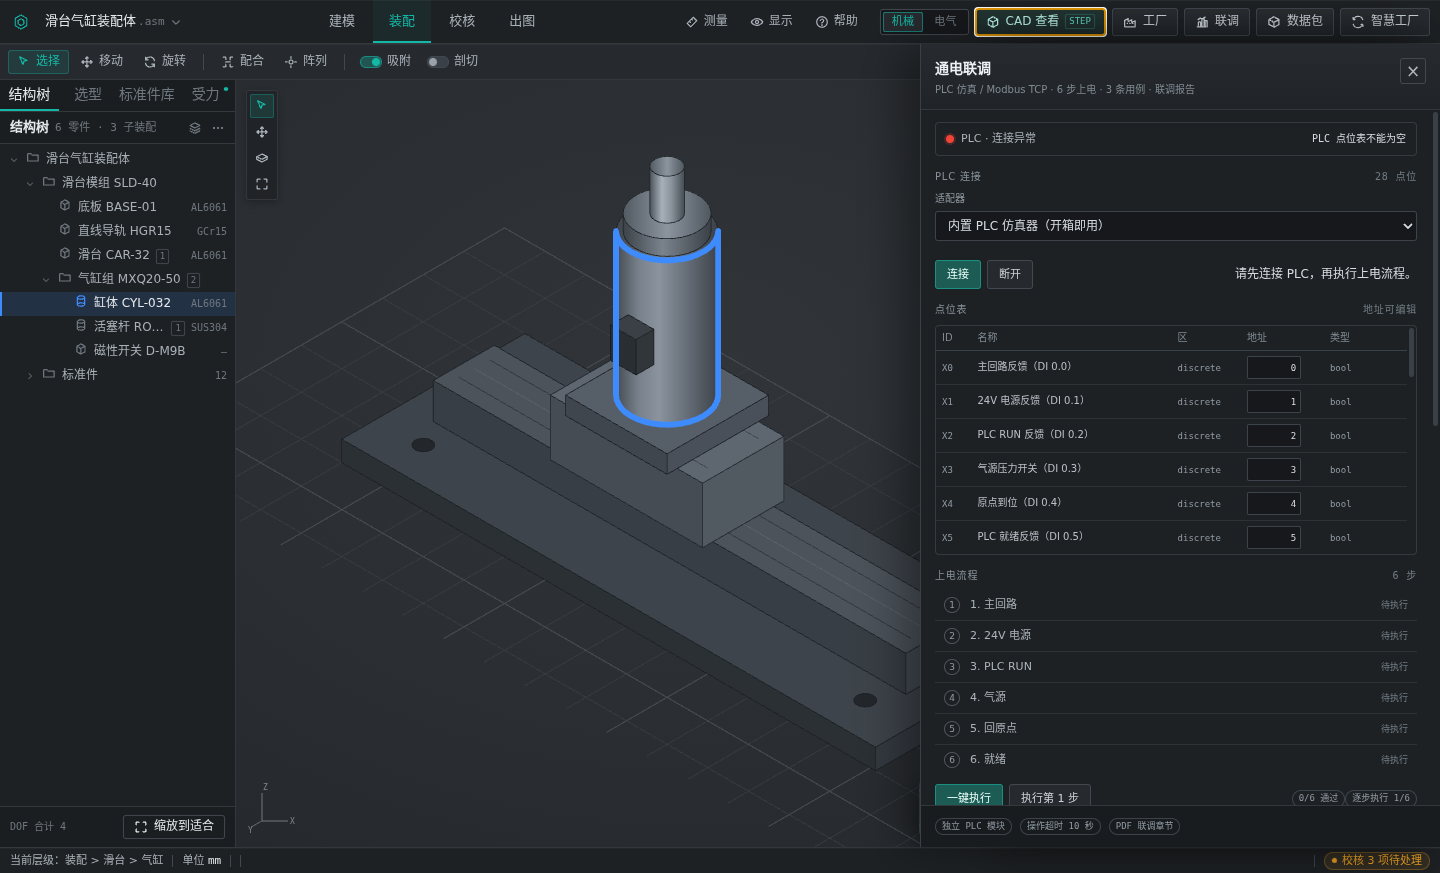
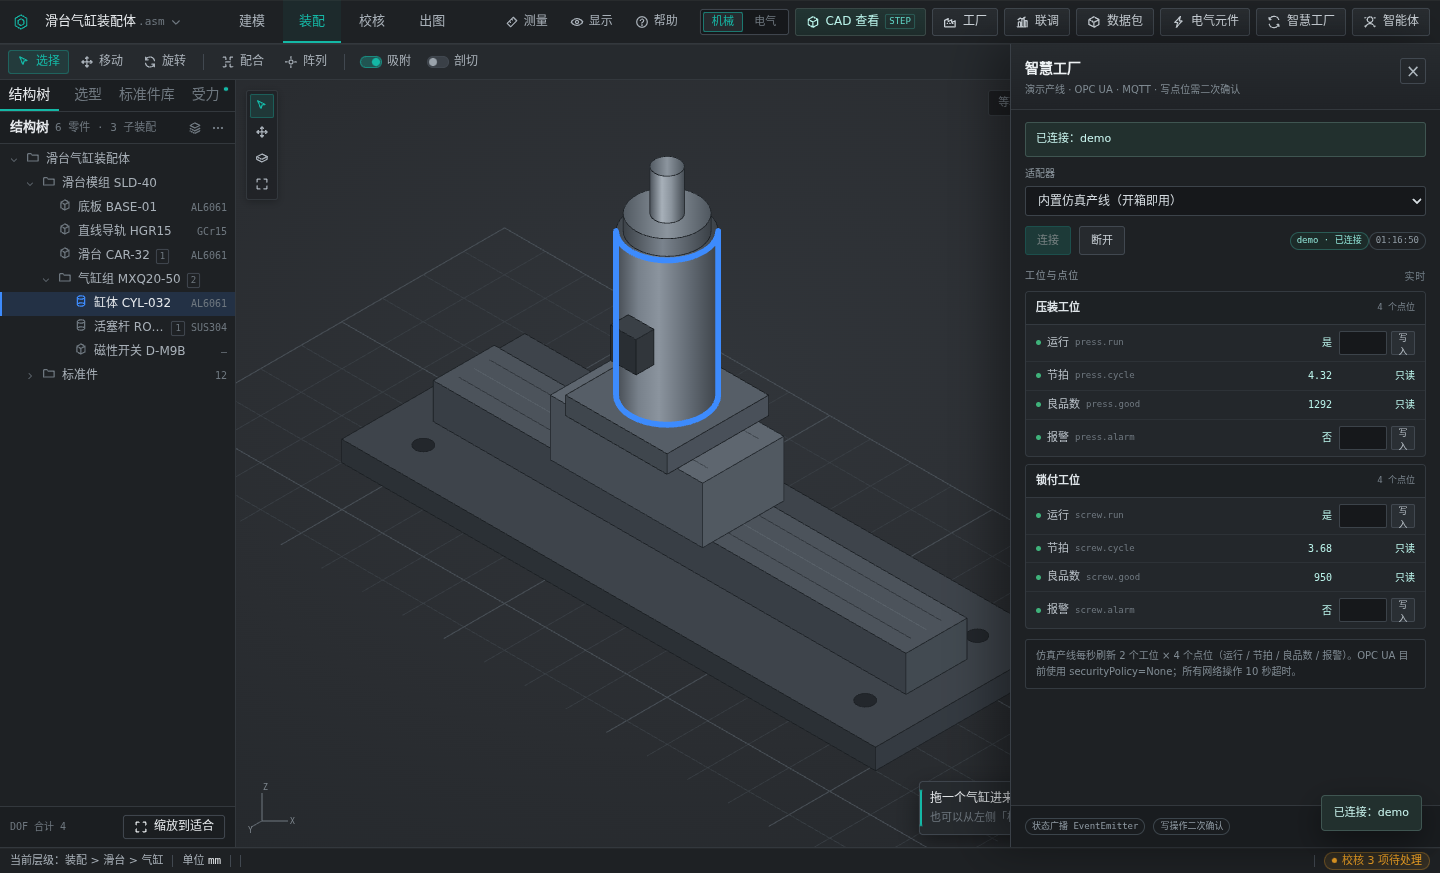
docs: 补拍智慧工厂实时值截图并修正图注

diff --git a/README.md b/README.md
@@ -21,7 +21,7 @@
 | `02-cad-assembly.png` | CAD 查看 · STEP 装配体 |
 | `03-interference.png` | 干涉检测 |
 | `04-stress.png` | 受力分析 |
-| `05-factory.png` | 联调前的点位表校验（异常路径） |
+| `05-factory.png` | 智慧工厂 · demo 产线实时值 |
 | `06-commission.png` | 通电联调 · 6 步全通过 |
 | `07-packs.png` | 数据包管理 |
 | `08-elec-library.png` | 电气元件库 |
@@ -46,11 +46,13 @@
 
 *受力分析：气缸推力按 `F = p·πD²/4·η` 计算，同时给出拉力（0.85 系数）、余量与安全系数；悬臂梁与螺栓预紧同页，超限项直接标红并给出改法建议。*
 
-### 通电联调：先校验点位表，再上电
+### 智慧工厂：demo 产线实时值
 
-![联调：点位表为空时拒绝上电](docs/desktop/screenshots/05-factory.png)
+![智慧工厂：demo 适配器连接后 2 工位 8 点位实时刷新](docs/desktop/screenshots/05-factory.png)
 
-*联调异常路径：点位表为空时连接直接报「PLC 点位表不能为空」，不允许带着空表跑上电流程——这是实跑截图，不是示意。*
+*智慧工厂：内置 demo 适配器连接后自动列出 2 个工位 × 4 个点位（运行 / 节拍 / 良品数 / 报警），每秒刷新；可写点位会弹出确认，OPC UA 与 MQTT 共用同一适配器接口。*
+
+### 通电联调：6 步上电与 3 条用例
 
 ![通电联调：6 步上电全部通过](docs/desktop/screenshots/06-commission.png)
 

diff --git a/docs/desktop/STATUS.md b/docs/desktop/STATUS.md
@@ -52,7 +52,7 @@
 5. **干涉为 AABB 初筛**，非精确布尔求交；贴合面与螺纹啮合可能误报，需白名单收口。
 6. **应用内对话的模型兼容性**只按 OpenAI 兼容协议、用本地假服务验证；真实服务商需逐个补验证。工具写入覆盖 import/insert/undo，属性修改与删除节点尚未提供撤销。
 7. **CI 仅手动触发**：`gh workflow run windows-build --ref main`，推 `v*` tag 才会发布 Release；未配置 push/PR 自动构建。
-8. **截图 `05-factory.png` 与文件名不符**：实际内容是联调面板在点位表为空时的拒绝上电状态，工厂实时值面板的截图待补拍（README 已按实际内容加注）。
+8. **截图覆盖**：`05-factory.png` 为智慧工厂 demo 连接后的实时值面板（2 工位 × 4 点位）；点表为空时的拒绝路径由联调面板负责，不再单独截图。
 
 ## 下一批建议
 
